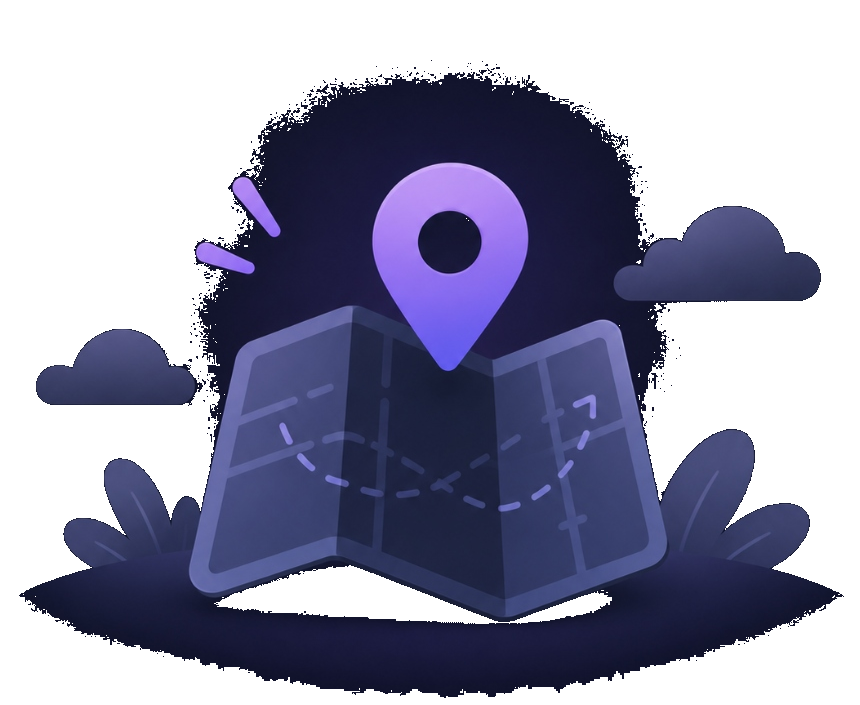
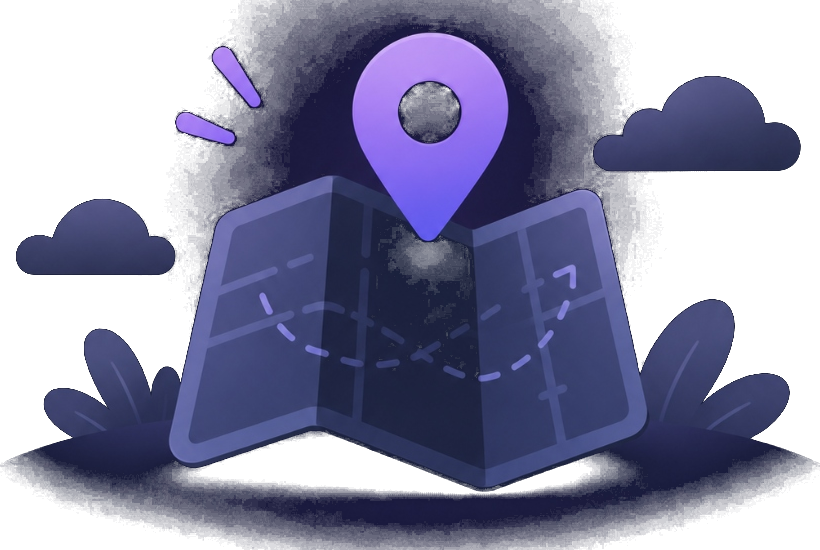
Refine activity history and status indicators

diff --git a/index.html b/index.html
@@ -132,8 +132,8 @@
                             
                             <!-- 3D Map Illustration (Dark & Light) -->
                             <div class="w-full flex items-center justify-center my-2">
-                                <img x-show="isDark" src="img/empty_map_dark.png" alt="Nessun territorio" class="w-64 sm:w-80 max-h-48 object-contain object-top pointer-events-none select-none">
-                                <img x-show="!isDark" src="img/empty_map_light.png" alt="Nessun territorio" class="w-64 sm:w-80 max-h-48 object-contain object-top pointer-events-none select-none">
+                                <img x-show="isDark" src="img/empty_map_dark.png" alt="Nessun territorio" class="w-64 sm:w-80 max-h-48 object-contain pointer-events-none select-none">
+                                <img x-show="!isDark" src="img/empty_map_light.png" alt="Nessun territorio" class="w-64 sm:w-80 max-h-48 object-contain pointer-events-none select-none">
                             </div>
 
                             <!-- Text Message -->
@@ -159,13 +159,6 @@
                                             <i class="fas fa-search"></i>
                                         </div>
                                         <span class="text-sm font-medium text-slate-600 dark:text-slate-300">Prova a modificare i filtri di ricerca</span>
-                                    </div>
-
-                                    <div class="flex items-center gap-3.5">
-                                        <div class="w-8 h-8 rounded-2xl bg-slate-100 dark:bg-[#141c2e] text-slate-500 dark:text-slate-400 flex items-center justify-center text-sm flex-shrink-0 shadow-xs">
-                                            <i class="fas fa-sliders"></i>
-                                        </div>
-                                        <span class="text-sm font-medium text-slate-600 dark:text-slate-300">Controlla l'ortografia</span>
                                     </div>
 
                                     <div class="flex items-center gap-3.5">
@@ -266,7 +259,7 @@
                                         <div class="bg-slate-50/80 dark:bg-[#141c2e]/60 rounded-2xl p-3 px-4 flex items-center justify-around gap-2 border border-slate-100/80 dark:border-slate-800/60">
                                             <!-- Green Fatti -->
                                             <div class="flex items-center gap-2 text-emerald-600 dark:text-emerald-400 text-xs sm:text-sm font-bold">
-                                                <div class="w-4.5 h-4.5 rounded-full bg-emerald-500 text-white inline-flex items-center justify-center text-[9px] font-black shadow-xs leading-none select-none flex-shrink-0 text-center">
+                                                <div class="w-4 h-4 rounded-full bg-emerald-500 text-white inline-flex items-center justify-center text-[9px] font-bold shadow-xs leading-none select-none flex-shrink-0 text-center">
                                                     <i class="fas fa-check"></i>
                                                 </div>
                                                 <span><strong x-text="calculateStats(t).green"></strong> <span x-text="calculateStats(t).green === 1 ? 'Fatto' : 'Fatti'"></span></span>
@@ -274,7 +267,7 @@
 
                                             <!-- Red Assenti -->
                                             <div class="flex items-center gap-2 text-rose-500 dark:text-rose-400 text-xs sm:text-sm font-bold">
-                                                <div class="w-4.5 h-4.5 rounded-full bg-rose-500 text-white inline-flex items-center justify-center text-[9px] font-black shadow-xs leading-none select-none flex-shrink-0 text-center">
+                                                <div class="w-4 h-4 rounded-full bg-rose-500 text-white inline-flex items-center justify-center text-[9px] font-bold shadow-xs leading-none select-none flex-shrink-0 text-center">
                                                     <i class="fas fa-times"></i>
                                                 </div>
                                                 <span><strong x-text="calculateStats(t).red"></strong> <span x-text="calculateStats(t).red === 1 ? 'Assente' : 'Assenti'"></span></span>
@@ -330,7 +323,7 @@
                     </button>
                 </header>
 
-                <div class="flex-1 overflow-y-auto p-4 md:p-6 space-y-4 no-scrollbar pb-6 min-h-0">
+                <div class="flex-1 overflow-y-auto p-4 md:p-6 space-y-4 no-scrollbar pb-2 min-h-0">
                     <!-- Card 1: Panoramica generale -->
                     <div class="bg-white dark:bg-[#0d1424] rounded-3xl p-5 shadow-xs border border-slate-200/80 dark:border-slate-800/80 space-y-4">
                         <div class="flex items-center justify-between">
@@ -369,7 +362,7 @@
                             <!-- Fatti -->
                             <div class="p-3.5 rounded-2xl bg-slate-50 dark:bg-[#141c2e] border border-slate-100 dark:border-slate-800/80 flex flex-col justify-between">
                                 <div class="flex items-center justify-between mb-2">
-                                    <div class="w-9 h-9 rounded-2xl bg-emerald-100 dark:bg-[#0d2e20] text-emerald-600 dark:text-emerald-400 flex items-center justify-center text-sm flex-shrink-0 shadow-xs">
+                                    <div class="w-4 h-4 rounded-full bg-emerald-500 text-white flex items-center justify-center text-[9px] font-bold flex-shrink-0 shadow-xs">
                                         <i class="fas fa-check"></i>
                                     </div>
                                     <span class="text-xs font-extrabold text-emerald-600 dark:text-emerald-400 bg-emerald-50 dark:bg-emerald-950/70 px-2 py-0.5 rounded-lg">
@@ -383,7 +376,7 @@
                             <!-- Assenti -->
                             <div class="p-3.5 rounded-2xl bg-slate-50 dark:bg-[#141c2e] border border-slate-100 dark:border-slate-800/80 flex flex-col justify-between">
                                 <div class="flex items-center justify-between mb-2">
-                                    <div class="w-9 h-9 rounded-2xl bg-rose-100 dark:bg-[#34171d] text-rose-600 dark:text-rose-400 flex items-center justify-center text-sm flex-shrink-0 shadow-xs">
+                                    <div class="w-4 h-4 rounded-full bg-rose-500 text-white flex items-center justify-center text-[9px] font-bold flex-shrink-0 shadow-xs">
                                         <i class="fas fa-times"></i>
                                     </div>
                                     <span class="text-xs font-extrabold text-slate-400 dark:text-slate-500 bg-slate-100 dark:bg-[#1b253b] px-2 py-0.5 rounded-lg">
@@ -487,11 +480,11 @@
                         <!-- Bottom Legend with Real Counts for Timeframe -->
                         <div class="flex items-center justify-around pt-3 border-t border-slate-100 dark:border-slate-800/80 text-xs sm:text-sm font-semibold text-slate-600 dark:text-slate-400">
                             <div class="flex items-center gap-2">
-                                <span class="w-3 h-3 rounded-full bg-emerald-500"></span>
+                                <span class="w-4 h-4 rounded-full bg-emerald-500 text-white inline-flex items-center justify-center text-[9px] font-bold shadow-xs"><i class="fas fa-check"></i></span>
                                 <span>Fatti (<span x-text="getVisitChartData().totalGreen"></span>)</span>
                             </div>
                             <div class="flex items-center gap-2">
-                                <span class="w-3 h-3 rounded-full bg-rose-500"></span>
+                                <span class="w-4 h-4 rounded-full bg-rose-500 text-white inline-flex items-center justify-center text-[9px] font-bold shadow-xs"><i class="fas fa-times"></i></span>
                                 <span>Assenti (<span x-text="getVisitChartData().totalRed"></span>)</span>
                             </div>
                             <div class="flex items-center gap-2">
@@ -593,7 +586,7 @@
                         </div>
                         
                         <!-- Empty placeholder -->
-                        <div x-show="territories.length === 0" class="py-6 px-4 rounded-2xl bg-slate-50 dark:bg-[#141c2e] border border-slate-100 dark:border-slate-800/80 text-center flex flex-col items-center justify-center">
+                        <div x-show="getRecentActivities().length === 0" class="py-6 px-4 rounded-2xl bg-slate-50 dark:bg-[#141c2e] border border-slate-100 dark:border-slate-800/80 text-center flex flex-col items-center justify-center">
                             <div class="w-12 h-12 rounded-2xl bg-slate-100 dark:bg-[#1b253b] text-slate-400 dark:text-slate-500 flex items-center justify-center text-xl mb-2 shadow-xs">
                                 <i class="fas fa-clock"></i>
                             </div>
@@ -602,18 +595,22 @@
                         </div>
 
                         <!-- Non-empty territories list -->
-                        <div x-show="territories.length > 0" class="space-y-3 divide-y divide-slate-100 dark:divide-slate-800/80">
-                            <template x-for="t in territories.slice(0, 5)" :key="t.id">
-                                <div class="pt-3 first:pt-0 cursor-pointer" @click="openTerritory(t.id)">
+                        <div x-show="getRecentActivities().length > 0" class="space-y-3 divide-y divide-slate-100 dark:divide-slate-800/80">
+                            <template x-for="activity in getRecentActivities()" :key="activity.address.id">
+                                <div class="pt-3 first:pt-0 cursor-pointer" @click="openTerritory(activity.territory.id)">
                                     <div class="flex items-center justify-between mb-1.5">
                                         <div class="flex items-center gap-2.5 min-w-0">
-                                            <span class="w-3.5 h-3.5 rounded-full flex-shrink-0" :style="'background-color: ' + (t.color || '#5b3c88')"></span>
-                                            <span class="font-bold text-sm text-slate-800 dark:text-white truncate" x-text="t.name"></span>
+                                            <span class="w-3.5 h-3.5 rounded-full flex-shrink-0" :style="'background-color: ' + (activity.territory.color || '#5b3c88')"></span>
+                                            <span class="font-bold text-sm text-slate-800 dark:text-white truncate" x-text="activity.territory.name"></span>
                                         </div>
-                                        <span class="text-sm font-black text-jw-600 dark:text-purple-400" x-text="calculateStats(t).percent + '%'"></span>
+                                        <span class="text-sm font-black text-jw-600 dark:text-purple-400" x-text="calculateStats(activity.territory).percent + '%'"></span>
+                                    </div>
+                                    <div class="flex items-center justify-between gap-3 text-xs text-slate-500 dark:text-slate-400 mb-2">
+                                        <span class="truncate"><i class="fas fa-location-dot mr-1 opacity-70"></i><span x-text="activity.address.name"></span></span>
+                                        <span class="flex-shrink-0"><i class="fas fa-clock mr-1 opacity-70"></i><span x-text="formatDateTime(activity.address.lastInteraction)"></span></span>
                                     </div>
                                     <div class="w-full bg-slate-100 dark:bg-[#141c2e] rounded-full h-2 overflow-hidden">
-                                        <div class="h-2 rounded-full transition-all duration-300" :style="{ width: calculateStats(t).percent + '%', backgroundColor: t.color || '#5b3c88' }"></div>
+                                        <div class="h-2 rounded-full transition-all duration-300" :style="{ width: calculateStats(activity.territory).percent + '%', backgroundColor: activity.territory.color || '#5b3c88' }"></div>
                                     </div>
                                 </div>
                             </template>
@@ -797,7 +794,7 @@
                         </div>
                     </div>
 
-                    <div class="text-center pt-2 pb-6">
+                    <div class="text-center pt-2 pb-1">
                         <span class="text-xs sm:text-sm font-medium text-slate-400 dark:text-slate-500">
                             MioTerritorio • Versione 1.2 PWA
                         </span>
@@ -960,7 +957,7 @@
                             <!-- Fatti -->
                             <div class="flex flex-col items-center justify-center px-1">
                                 <div class="flex items-center gap-2 text-emerald-600 dark:text-emerald-400 mb-0.5">
-                                    <div class="w-4.5 h-4.5 rounded-full bg-emerald-500 text-white inline-flex items-center justify-center text-[9px] font-black shadow-xs leading-none select-none flex-shrink-0 text-center">
+                                    <div class="w-4 h-4 rounded-full bg-emerald-500 text-white inline-flex items-center justify-center text-[9px] font-bold shadow-xs leading-none select-none flex-shrink-0 text-center">
                                         <i class="fas fa-check"></i>
                                     </div>
                                     <strong class="text-lg font-black text-emerald-600 dark:text-emerald-400" x-text="calculateStats(activeTerritory).green"></strong>
@@ -971,7 +968,7 @@
                             <!-- Assenti -->
                             <div class="flex flex-col items-center justify-center px-1">
                                 <div class="flex items-center gap-2 text-rose-500 dark:text-rose-400 mb-0.5">
-                                    <div class="w-4.5 h-4.5 rounded-full bg-rose-500 text-white inline-flex items-center justify-center text-[9px] font-black shadow-xs leading-none select-none flex-shrink-0 text-center">
+                                    <div class="w-4 h-4 rounded-full bg-rose-500 text-white inline-flex items-center justify-center text-[9px] font-bold shadow-xs leading-none select-none flex-shrink-0 text-center">
                                         <i class="fas fa-times"></i>
                                     </div>
                                     <strong class="text-lg font-black text-rose-500 dark:text-rose-400" x-text="calculateStats(activeTerritory).red"></strong>
@@ -1069,7 +1066,7 @@
                                             <!-- Fatto -->
                                             <div class="flex flex-col items-center justify-center px-1">
                                                 <div class="flex items-center gap-2 text-emerald-600 dark:text-emerald-400 mb-0.5">
-                                                    <div class="w-4.5 h-4.5 rounded-full bg-emerald-500 text-white inline-flex items-center justify-center text-[9px] font-black shadow-xs leading-none select-none flex-shrink-0 text-center">
+                                                    <div class="w-4 h-4 rounded-full bg-emerald-500 text-white inline-flex items-center justify-center text-[9px] font-bold shadow-xs leading-none select-none flex-shrink-0 text-center">
                                                         <i class="fas fa-check"></i>
                                                     </div>
                                                     <strong class="text-base font-black text-emerald-600 dark:text-emerald-400" x-text="calculateAddressStats(addr).green"></strong>
@@ -1080,7 +1077,7 @@
                                             <!-- Assenti -->
                                             <div class="flex flex-col items-center justify-center px-1">
                                                 <div class="flex items-center gap-2 text-rose-500 dark:text-rose-400 mb-0.5">
-                                                    <div class="w-4.5 h-4.5 rounded-full bg-rose-500 text-white inline-flex items-center justify-center text-[9px] font-black shadow-xs leading-none select-none flex-shrink-0 text-center">
+                                                    <div class="w-4 h-4 rounded-full bg-rose-500 text-white inline-flex items-center justify-center text-[9px] font-bold shadow-xs leading-none select-none flex-shrink-0 text-center">
                                                         <i class="fas fa-times"></i>
                                                     </div>
                                                     <strong class="text-base font-black text-rose-500 dark:text-rose-400" x-text="calculateAddressStats(addr).red"></strong>
@@ -1178,8 +1175,8 @@
 
                                         <!-- Legend -->
                                         <div class="flex items-center justify-center flex-wrap gap-3 sm:gap-4 mt-4 pt-3 border-t border-slate-100 dark:border-slate-800/60 text-xs sm:text-sm font-semibold text-slate-400 dark:text-slate-500">
-                                            <span class="flex items-center gap-1.5"><div class="w-4.5 h-4.5 rounded-full bg-emerald-500 text-white inline-flex items-center justify-center text-[9px] font-black shadow-xs leading-none select-none flex-shrink-0 text-center"><i class="fas fa-check"></i></div> Fatto</span>
-                                            <span class="flex items-center gap-1.5"><div class="w-4.5 h-4.5 rounded-full bg-rose-500 text-white inline-flex items-center justify-center text-[9px] font-black shadow-xs leading-none select-none flex-shrink-0 text-center"><i class="fas fa-times"></i></div> Assente</span>
+                                            <span class="flex items-center gap-1.5"><div class="w-4 h-4 rounded-full bg-emerald-500 text-white inline-flex items-center justify-center text-[9px] font-bold shadow-xs leading-none select-none flex-shrink-0 text-center"><i class="fas fa-check"></i></div> Fatto</span>
+                                            <span class="flex items-center gap-1.5"><div class="w-4 h-4 rounded-full bg-rose-500 text-white inline-flex items-center justify-center text-[9px] font-bold shadow-xs leading-none select-none flex-shrink-0 text-center"><i class="fas fa-times"></i></div> Assente</span>
                                             <span class="flex items-center gap-1.5"><div class="w-4.5 h-4.5 rounded-full bg-slate-300 dark:bg-slate-600 text-white inline-flex items-center justify-center text-[7px] font-black shadow-xs leading-none select-none flex-shrink-0 text-center"><i class="fas fa-circle"></i></div> Non visitato</span>
                                             <span class="flex items-center gap-1.5"><div class="w-4.5 h-4.5 rounded-full bg-slate-200 dark:bg-slate-800 border border-dashed border-slate-400 dark:border-slate-600 text-slate-500 dark:text-slate-400 inline-flex items-center justify-center text-[8px] font-black shadow-xs leading-none select-none flex-shrink-0 text-center"><i class="fas fa-border-none"></i></div> Vuoto</span>
                                         </div>
@@ -1649,10 +1646,6 @@
                                 class="w-full py-3.5 px-4 rounded-2xl bg-jw-600 text-white font-extrabold text-xs shadow-lg shadow-jw-600/30 hover:bg-jw-700 active:scale-[0.98] transition-all flex items-center justify-center gap-2">
                                 <i class="fas fa-wand-magic-sparkles text-sm"></i>
                                 <span>Avvia Tutorial Guidato</span>
-                            </button>
-                            <button @click="finishTutorial()"
-                                class="w-full py-3 px-4 rounded-2xl bg-slate-100 dark:bg-[#141c2e] text-slate-700 dark:text-slate-300 font-extrabold text-xs hover:bg-slate-200 dark:hover:bg-[#1e293b] active:scale-[0.98] transition-all flex items-center justify-center gap-2">
-                                <span>Comincia ad usarlo</span>
                             </button>
                             <button @click="openPwaGuide()"
                                 class="w-full py-2.5 px-3 rounded-2xl border border-jw-200 dark:border-jw-900/60 text-jw-600 dark:text-jw-400 font-bold text-xs hover:bg-jw-50 dark:hover:bg-jw-950/40 transition-all flex items-center justify-center gap-2">

diff --git a/js/app.js b/js/app.js
@@ -1044,7 +1044,12 @@ function territoryApp() {
         },
         getRecentActivities() {
             if (!this.territories || this.territories.length === 0) return [];
-            return this.territories.slice(0, 5);
+            return this.territories
+                .flatMap((territory) => (territory.addresses || [])
+                    .filter((address) => address.lastInteraction)
+                    .map((address) => ({ territory, address })))
+                .sort((a, b) => new Date(b.address.lastInteraction) - new Date(a.address.lastInteraction))
+                .slice(0, 5);
         },
         getFilteredTerritories() {
             return this.territories.filter(t => {

diff --git a/sw.js b/sw.js
@@ -1,4 +1,4 @@
-const CACHE_NAME = 'territori-cache-v35';
+const CACHE_NAME = 'territori-cache-v36';
 const ASSETS = [
     './',
     'index.html',
